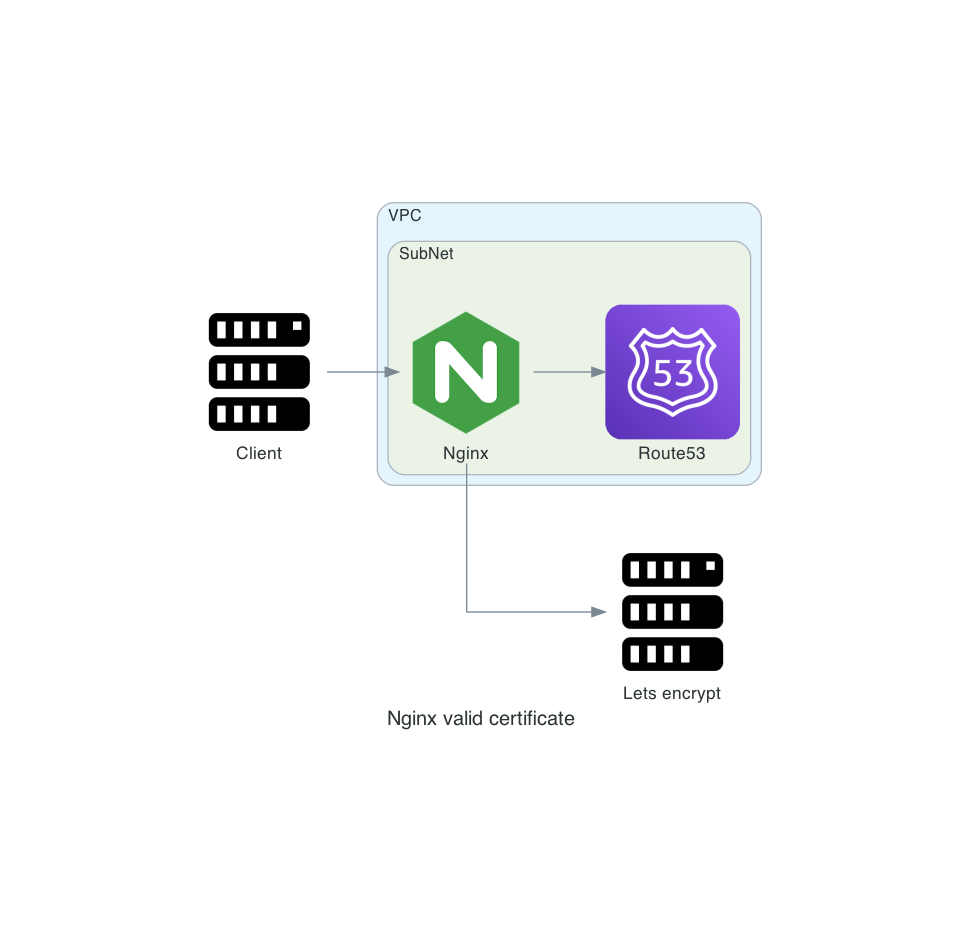
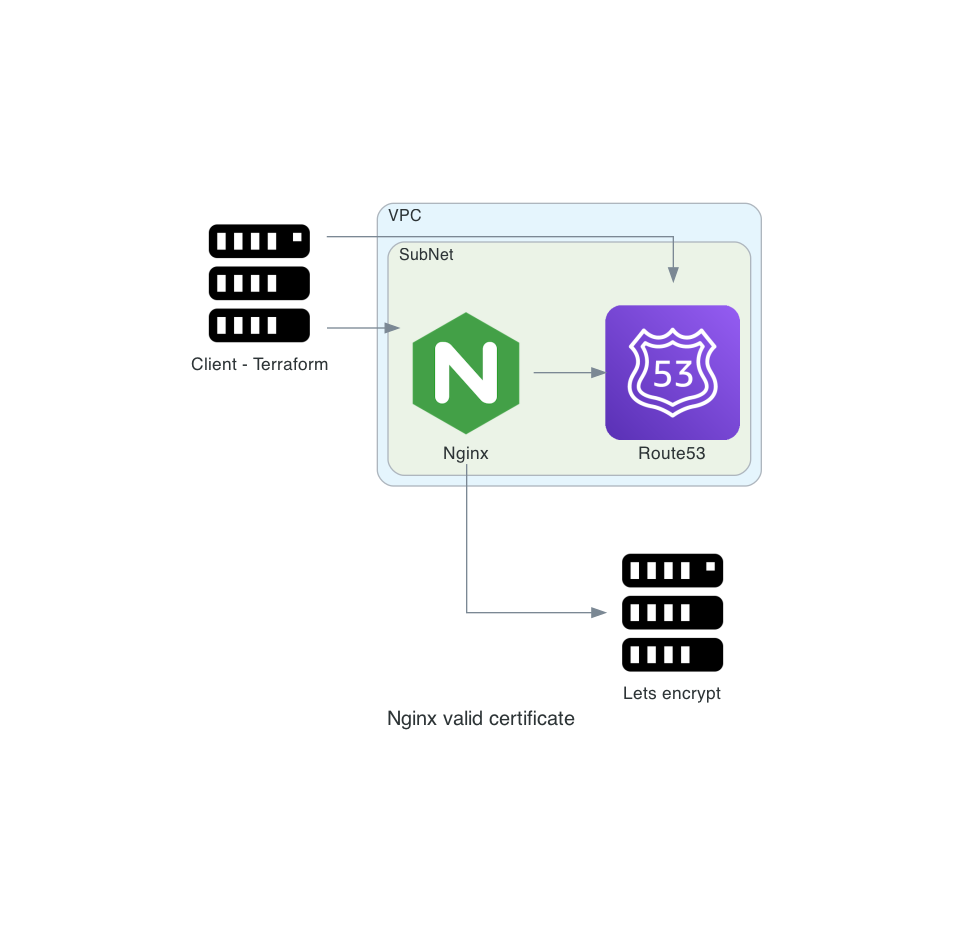
fix diagram

diff --git a/diagram/diagram.py b/diagram/diagram.py
@@ -10,7 +10,7 @@ from diagrams.aws.network    import Route53
 from diagrams.onprem.compute import Server
 
 with Diagram("Nginx valid certificate", show=False):
-    client = Server("Client")
+    client = Server("Client - Terraform")
     lets = Server("Lets encrypt")
     # dns = Route53("Route53")
     # internet = Internet("internet")
@@ -21,5 +21,6 @@ with Diagram("Nginx valid certificate", show=False):
 
 
             client >> nginx
+            client >> dns
             nginx >> lets
             nginx >> dns
